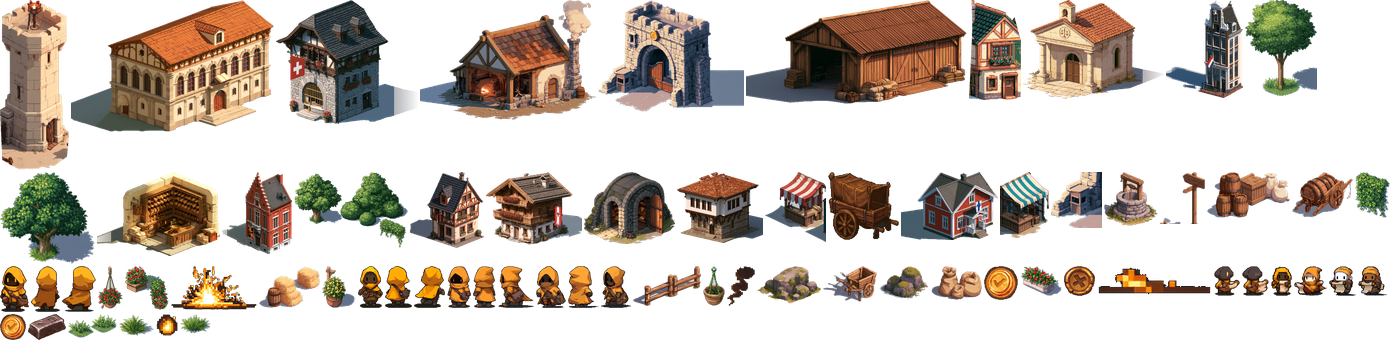
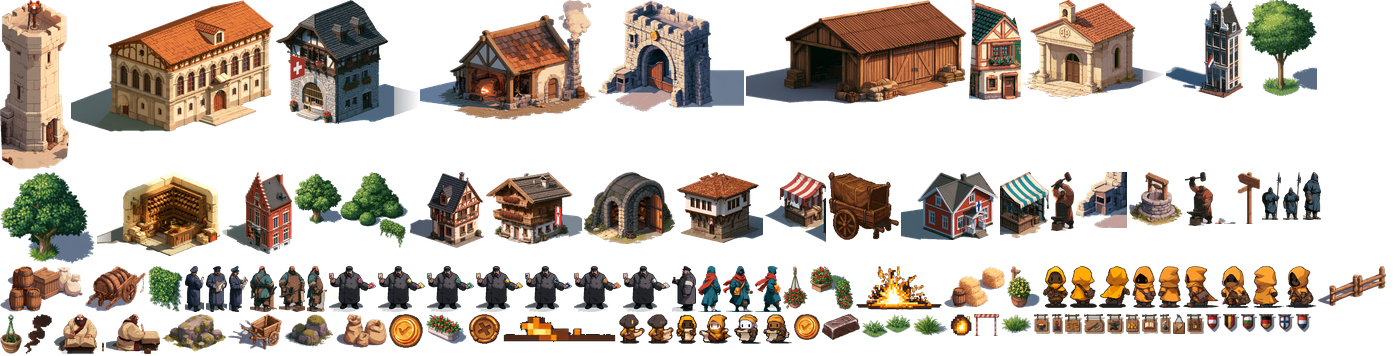
feat(live): v9 tranche D — the world names itself without a letter, and the agents take their posts
The owner's boards of 02/09/2026, cut at world scale into the atlas
(scripts/village-atlas/rebuild-atlas.py; the boards stay outside the repo):

- Pictorial signs: one carved symbol per craft hangs on its building
  (coins, quill, cleaver, book, scales, seal, striped pole, eye, anvil,
  brazier, padlock) and a national shield on each registry house — the
  village is readable without a single character, so nothing is left to
  translate in the picture.
- Agents from the boards: the toll gate guard, the seated scribe, the
  parchment cutter and the border officer stand at their posts, turn to
  the hero at their step and open their station's card on hover. The
  national registrar wears the armband of the visited country (six tinted
  frames) and steps out beside that house's door. The smith stands at his
  anvil with two boards, hammer up and hammer down: the three strikes of
  the forge now land in his arm. The hero walks the boards of his second
  version — teal coat, crimson scarf, gold satchel — the one colour
  family the village did not have.
- The forge's doorstep moves beside the anvil so the hero and the smith
  never share the same pixel; drawActor falls back from `${kind}-${face}`
  to `${kind}-front` to the bare frame, so a board with fewer poses never
  makes a character vanish.

Still to come from the owner: the Swiss counter clerk, the judge and the
apprentice (their prompts reworked).

Claude-Session: https://claude.ai/code/session_01EvfwJcKZQwTPb8CptMwHGr

diff --git a/frontend/app/[locale]/live/village-canvas.tsx b/frontend/app/[locale]/live/village-canvas.tsx
@@ -16,7 +16,7 @@ import { useCallback, useEffect, useRef, useState } from "react"
 import {
   W, H, SCALE, STATIONS, stationById, REGISTRY_CCS,
   loadWorldImages, paintGround, paintVignette, drawSprite, drawActor, drawTinted,
-  SCENERY, HALOS, EMBER_ZONES, CHIMNEYS,
+  SCENERY, HALOS, EMBER_ZONES, CHIMNEYS, ACTOR_SCALE,
   type Actor, type StationGeo, type WorldImages,
 } from "./world"
 import { roadRoute } from "@/lib/village/roads"
@@ -130,10 +130,21 @@ export function VillageCanvas({ labels, tips, heroTip, villagerTip, idle, canvas
       wt: i * 1.9, tx: undefined as number | undefined, ty: undefined as number | undefined,
     })),
     agents: {
+      // tranche D: the owner's boards — gate guard, scribe, cutter, border
+      // officer, national registrar (armband tinted per country, moves to
+      // the visited house); the librarian, sorter and usher keep their clerks
+      gate: { x: 32, y: 198, dir: 1, kind: "agent-gate", face: "down" } as Actor,
+      scribe: { x: 186, y: 196, dir: 1, kind: "agent-scribe", face: "down" } as Actor,
+      cutter: { x: 352, y: 196, dir: -1, kind: "agent-cutter", face: "down" } as Actor,
       library: { x: 722, y: 186, dir: -1, kind: "clerk3", face: "down" } as Actor,
+      registrar: { x: 589, y: 348, dir: -1, kind: "agent-registrar-DE", face: "down" } as Actor,
       classifier: { x: 216, y: 346, dir: 1, kind: "clerk0", face: "down" } as Actor,
       court: { x: 346, y: 348, dir: -1, kind: "clerk1", face: "down" } as Actor,
+      border: { x: 254, y: 500, dir: 1, kind: "agent-border", face: "down" } as Actor,
     } as Record<string, Actor>,
+    /** the smith at his anvil: two boards, hammer up and hammer down */
+    smith: { x: 526, y: 502 },
+    smithDownUntil: 0,
     watcher: { x: 900, y: 494, dir: -1, kind: "clerk5", face: "down" } as Actor,
     archivist: { x: 126, y: 502, dir: 1, kind: "clerk4", face: "down" } as Actor,
     couriers: [] as { key: number; tip: StationTip; actor: Actor; pts: [number, number][]; i: number }[],
@@ -245,7 +256,7 @@ export function VillageCanvas({ labels, tips, heroTip, villagerTip, idle, canvas
       if (w.slot && t - w.slot.t0 > w.slot.dur) w.slot = null
       if (w.beam && t - w.beam.t0 > w.beam.dur) w.beam = null
       if (w.shutter && t - w.shutter.t0 > 2000) w.shutter = null
-      w.gestures = w.gestures.filter((g) => { g.a.moving = t < g.until; return t < g.until })
+      w.gestures = w.gestures.filter((g) => { const on = t < g.until; g.a.moving = on; if (!on) g.a.face = "down"; return on })
       if (w.drop && !w.drop.landed && t >= w.drop.t0 + w.drop.dur) {
         // the seal lands: the one moment an effect leaves its building
         const d = w.drop
@@ -364,6 +375,10 @@ export function VillageCanvas({ labels, tips, heroTip, villagerTip, idle, canvas
           } else {
             drawSprite(ctx, img, p.sprite, cx, p.base, { scale: p.scale, flip: p.flip })
           }
+          // the pictorial sign (tranche D): one symbol, no letters, lifts with its building
+          if (p.sign && p.signDx !== undefined && p.signDy !== undefined) {
+            drawSprite(ctx, img, p.sign, cx + p.signDx, p.base + p.signDy, { dy: hot ? -2 : 0 })
+          }
         },
       }))
       const actors: Actor[] = [
@@ -392,6 +407,15 @@ export function VillageCanvas({ labels, tips, heroTip, villagerTip, idle, canvas
         const c = w.cart
         ents.push({ base: c.y + 10, draw: () => drawSprite(ctx, img, "cart", c.x, c.y + 10, { flip: c.dir < 0 }) })
       }
+      // the smith and his anvil, hammer up between strikes
+      ents.push({
+        base: w.smith.y,
+        draw: () => {
+          ctx.save(); ctx.globalAlpha = 0.25; ctx.fillStyle = "#0A0A12"
+          ctx.beginPath(); ctx.ellipse(w.smith.x, w.smith.y + 1.5, 9, 3, 0, 0, Math.PI * 2); ctx.fill(); ctx.restore()
+          drawSprite(ctx, img, t < w.smithDownUntil ? "agent-smith-down" : "agent-smith-up", w.smith.x, w.smith.y, { scale: ACTOR_SCALE })
+        },
+      })
       ents.sort((a, b) => a.base - b.base)
       for (const e of ents) e.draw()
       // transient props: the ingot cooling on the anvil, the spark burst
@@ -737,10 +761,12 @@ export function VillageCanvas({ labels, tips, heroTip, villagerTip, idle, canvas
       const hx = w.hero.x, hy = w.hero.y
       const p = step.params ?? {}
       if (step.station === "gate") {
+        gesture("gate")
         w.seals.push({ x: 46, y: 140, sprite: "coin", l: 90 })
         wave(46, 196, 40, 700)
       }
       if (step.station === "scribe") {
+        gesture("scribe")
         if (step.outcome === "fail") {
           w.seals.push({ x: 204, y: 116, sprite: "seal-x", l: 110, tint: "#B91C1C" })
           wave(210, 196, 70, 800, "#EF4444", 2.5); thump(90, 2.5)
@@ -750,12 +776,16 @@ export function VillageCanvas({ labels, tips, heroTip, villagerTip, idle, canvas
           thump(60, 1.5); wave(210, 196, 34, 600)
         }
       }
-      if (step.key === "cutter") w.cards.push({ mode: "split", ax: 330, ay: 168, bx: 330, by: 168, t0: now(), dur: 900, hold: 1400 })
+      if (step.key === "cutter") { gesture("cutter"); w.cards.push({ mode: "split", ax: 330, ay: 168, bx: 330, by: 168, t0: now(), dur: 900, hold: 1400 }) }
       if (step.station === "library" && p.found) {
         gesture("library")
         w.cards.push({ mode: "slip", ax: 712, ay: 168, bx: hx, by: hy - 34, t0: now(), dur: 700, hold: 1500, dot: true })
       }
       if (step.station === "registry" && target) {
+        // the registrar of THIS country steps out beside the visited door
+        const reg = w.agents.registrar
+        reg.kind = `agent-registrar-${target.cc ?? "DE"}`; reg.x = target.door[0] + 16; reg.y = target.door[1] - 2; reg.dir = -1
+        gesture("registrar")
         w.shutter = { x: target.door[0], y: target.door[1] - 26, t0: now() }
         if (!(await sleep(R ? 0 : 400))) return
         w.cards.push({ mode: "slip", ax: target.door[0], ay: target.door[1] - 24, bx: hx, by: hy - 34, t0: now(), dur: 600, hold: 1200, dot: true })
@@ -774,6 +804,7 @@ export function VillageCanvas({ labels, tips, heroTip, villagerTip, idle, canvas
         w.slot = { x: 204 + idx * 20, y: 290, w: 16, h: 12, t0: now() + 600, dur: 1600 }
       }
       if (step.station === "border") {
+        gesture("border")
         if (p.sepa) w.barrierTarget = 1
         if (!(await sleep(R ? 0 : 400))) return
         if (p.vopParticipant) w.cards.push({ mode: "pair", ax: 280, ay: 474, bx: 280, by: 474, t0: now(), dur: 900, hold: 1400 })
@@ -798,6 +829,7 @@ export function VillageCanvas({ labels, tips, heroTip, villagerTip, idle, canvas
         if (!R) {
           for (const k of [0, 1, 2]) {
             const strong = k === 2
+            w.smithDownUntil = now() + 150
             w.hitstopUntil = now() + (strong ? 120 : 90)
             w.flash = strong ? 0.16 : 0.1
             w.shake = { amp: strong ? 4.5 : 3, t0: now() }
@@ -1003,6 +1035,12 @@ export function VillageCanvas({ labels, tips, heroTip, villagerTip, idle, canvas
     else if (near(w.archivist)) found = tips.archive ?? null
     else if ((w.clerks as unknown as Actor[]).some(near)) found = villagerTip
     else if (near(w.agents.library)) { found = tips.library ?? null; station = "library" }
+    else if (near(w.agents.gate)) { found = tips.gate ?? null; station = "gate" }
+    else if (near(w.agents.scribe)) { found = tips.scribe ?? null; station = "scribe" }
+    else if (near(w.agents.cutter)) { found = tips.cutter ?? null; station = "cutter" }
+    else if (near(w.agents.border)) { found = tips.border ?? null; station = "border" }
+    else if (near(w.agents.registrar)) { const cc = w.agents.registrar.kind.slice(-2); found = tips[`reg-${cc}`] ?? null; station = `reg-${cc}` }
+    else if (Math.abs(mx - w.smith.x) < 12 && Math.abs(my - (w.smith.y - 18)) < 22) { found = tips.forge ?? null; station = "forge" }
     else if (near(w.agents.classifier)) { found = tips.classifier ?? null; station = "classifier" }
     else if (near(w.agents.court)) { found = tips.court ?? null; station = "court" }
     else {

diff --git a/frontend/app/[locale]/live/world.ts b/frontend/app/[locale]/live/world.ts
@@ -140,7 +140,8 @@ export const STATIONS: StationGeo[] = [
   // the barrier sits ACROSS the bottom street: the hero passes through it
   geo('border', 'fence', 280, 506, 104, 46, [280, 498], [280, 498]),
   geo('tower', 'tower', 380, 496, 64, 140, [380, 504], [380, 498], { scale: 0.82 }),
-  geo('forge', 'forge', 560, 488, 152, 126, [537, 500], [537, 498]),
+  // the smith stands at the hearth (tranche D); the hero stops beside him
+  geo('forge', 'forge', 560, 488, 152, 126, [562, 500], [562, 498]),
   geo('archive', 'archive-b', 140, 486, 91, 72, [140, 502], [140, 498]),
   geo('vigil', 'vigil-booth', 906, 476, 56, 60, [906, 496], [906, 498]),
 ];
@@ -221,11 +222,43 @@ export function paintGround(ctx: Ctx, img: WorldImages) {
 }
 
 /** Fixed scenery, merged with actors each frame and sorted by base line. */
-export interface Placed { sprite: string; cx: number; base: number; scale?: number; flip?: boolean; id?: string }
+export interface Placed {
+  sprite: string; cx: number; base: number; scale?: number; flip?: boolean; id?: string;
+  /** the pictorial sign hung on the building (tranche D): frame + offset from (cx, base) */
+  sign?: string; signDx?: number; signDy?: number;
+}
+/** One symbol per craft, a national shield per registry house: the world
+ * names its buildings without a single character (the twenty labels left
+ * in tranche B; the rail carries the words). */
+const SIGN_FOR: Record<string, string> = {
+  gate: 'sign-gate', scribe: 'sign-scribe', cutter: 'sign-cutter', library: 'sign-library',
+  court: 'sign-court', classifier: 'sign-classifier', border: 'sign-border', tower: 'sign-tower',
+  forge: 'sign-forge', archive: 'sign-archive', warehouse: 'sign-warehouse',
+  'reg-DE': 'shield-DE', 'reg-AT': 'shield-AT', 'reg-BE': 'shield-BE',
+  'reg-BG': 'shield-BG', 'reg-NL': 'shield-NL', 'reg-FI': 'shield-FI',
+};
+/** where each sign hangs, relative to the building's (cx, base) */
+function signAt(s: StationGeo): [number, number] {
+  if (s.cc) return [0, -s.bh + 20];                 // shield above the door
+  switch (s.id) {
+    case 'gate': return [-s.bw / 2 + 4, -s.bh + 40];
+    case 'library': return [-s.bw / 2 + 22, -s.bh + 46];
+    case 'tower': return [-26, -30];
+    case 'border': return [54, -32];                 // by the signpost, not on the fence
+    case 'forge': return [-s.bw / 2 + 30, -s.bh + 44];
+    case 'warehouse': return [-s.bw / 2 + 26, -s.bh + 40];
+    case 'six': return [-s.bw / 2 + 14, -s.bh + 40];
+    default: return [-s.bw / 2 + 12, -s.bh + 26];
+  }
+}
 export const SCENERY: Placed[] = [
-  ...STATIONS.filter((s) => s.sprite).map((s) => ({
-    sprite: s.sprite!, cx: s.cx, base: s.base, scale: s.scale, flip: s.flip, id: s.id,
-  })),
+  ...STATIONS.filter((s) => s.sprite).map((s) => {
+    const [signDx, signDy] = signAt(s);
+    return {
+      sprite: s.sprite!, cx: s.cx, base: s.base, scale: s.scale, flip: s.flip, id: s.id,
+      sign: SIGN_FOR[s.id], signDx, signDy,
+    };
+  }),
   { sprite: 'signpost', cx: 322, base: 496 },   // border post sign, by the barrier
   { sprite: 'cart', cx: 752, base: 100 },       // parked cart, by the depot
   { sprite: 'tree2', cx: 140, base: 112 },      // fills the corner the depot left
@@ -263,9 +296,11 @@ export function paintVignette(ctx: Ctx) {
 
 /* ---------- actors ---------- */
 
-export type ActorKind =
-  | 'hero' | 'cour-a' | 'cour-b' | 'cour-c'
-  | 'clerk0' | 'clerk1' | 'clerk2' | 'clerk3' | 'clerk4' | 'clerk5';
+/** 'hero', 'cour-a/b/c', 'clerk0..5', and since tranche D the agents cut
+ * from the owner's boards ('agent-gate', 'agent-scribe', 'agent-cutter',
+ * 'agent-border', 'agent-registrar-DE'…). Frames are `${kind}-${face}`,
+ * falling back to `${kind}-front`, then to the bare kind. */
+export type ActorKind = string;
 
 export interface Actor {
   x: number; y: number; dir: 1 | -1;
@@ -292,6 +327,8 @@ export function drawActor(ctx: Ctx, img: WorldImages, a: Actor, t: number, reduc
     const face = a.face ?? 'down';
     const suffix = face === 'side' ? 'side' : face === 'up' ? 'back' : 'front';
     name = `${a.kind}-${suffix}`;
+    // a board may carry fewer poses than three: fall back rather than vanish
+    if (!img.meta[name]) name = img.meta[`${a.kind}-front`] ? `${a.kind}-front` : a.kind;
   }
   // soft contact shadow first, sprite on top
   ctx.save();
